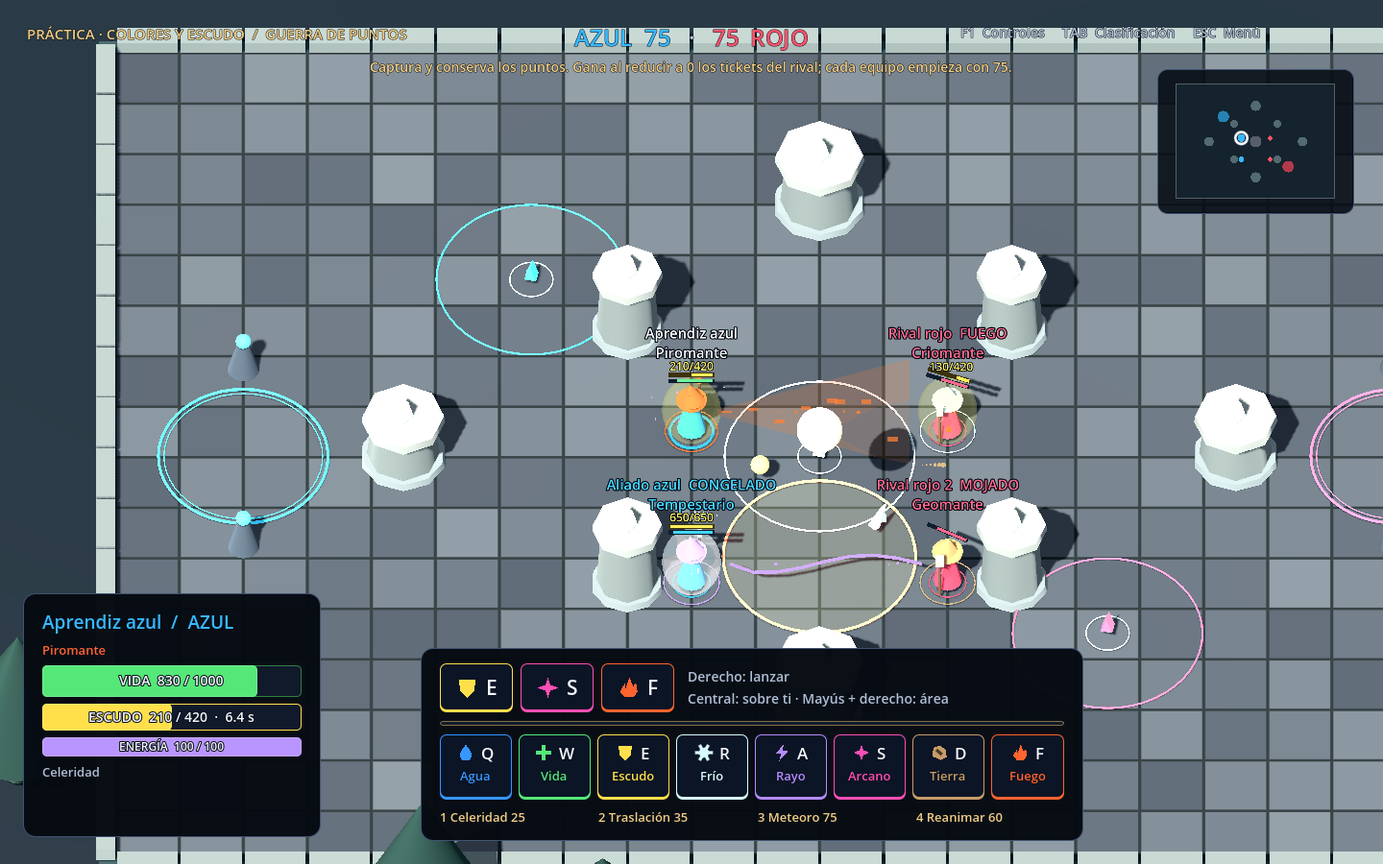
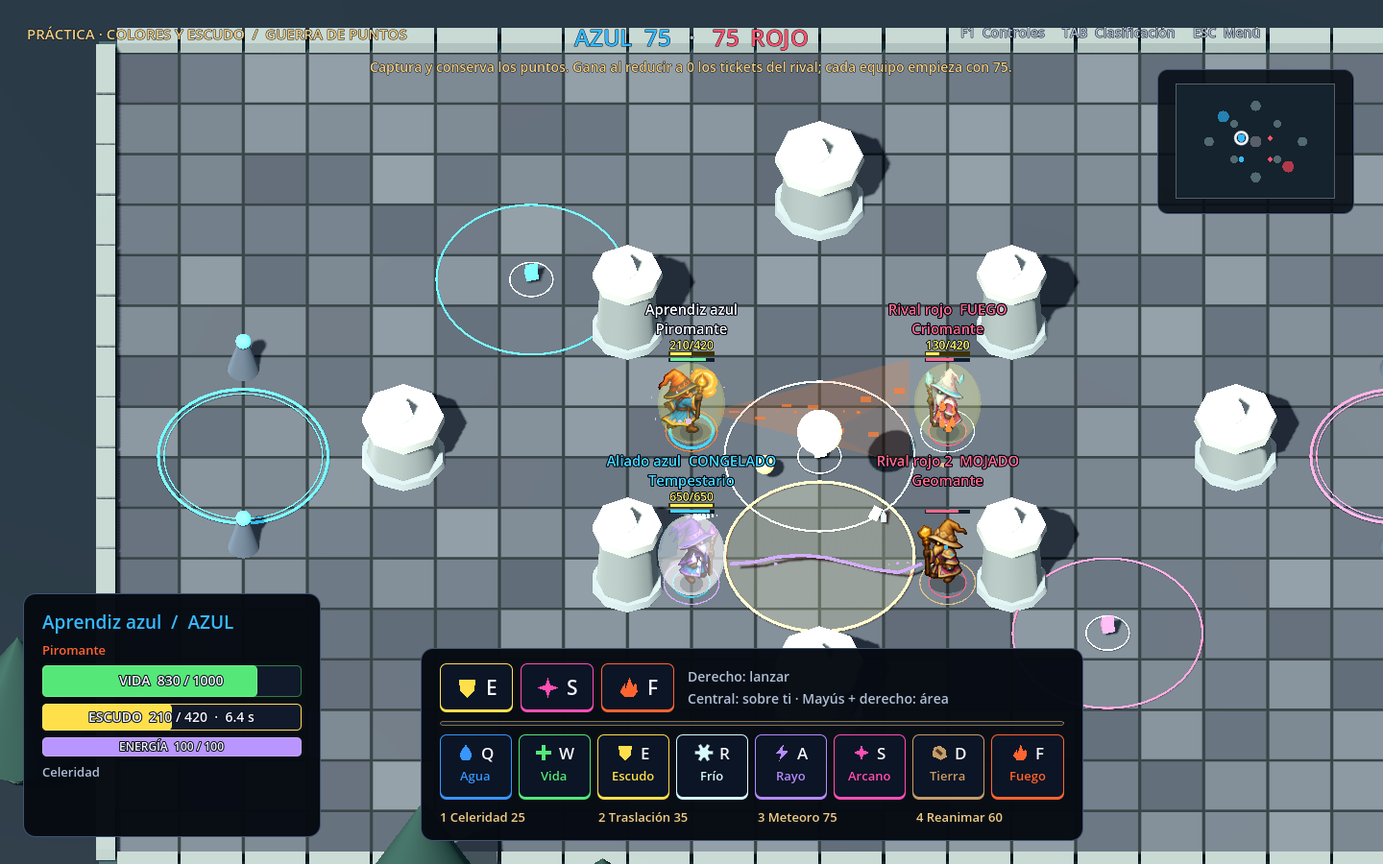
Actualiza documentación y capturas de ArcanaArena v0.6.0
Incluye README, historial, arquitectura, combinaciones, instrucciones y notas de versión.

Vídeos y recursos de sprites quedan pendientes para un commit aparte.

diff --git a/README.md b/README.md
@@ -1,12 +1,14 @@
-# Arcana Arena — v0.4.0
+# Arcana Arena — v0.6.0
 
 Primera recreación jugable en C# del combate elemental de **Magicka: Wizard Wars**. Cliente 3D de escritorio con **Godot 4.5.2 .NET**, servidor independiente **ASP.NET Core / .NET 8**, Docker, launcher con conexión por IP/LAN, salas independientes y paquete Windows para abrir con doble clic.
 
-El código, las mallas y los sonidos son propios. Esta versión reproduce la estructura del combate; los gráficos, mapas, magicks y valores de daño son una aproximación, no una reproducción exacta del original.
+El código, las mallas y los sonidos son propios. Los sprites de los magos se han generado para este proyecto. Esta versión reproduce la estructura del combate; los gráficos, mapas, magicks y valores de daño son una aproximación, no una reproducción exacta del original.
 
 ![Launcher y acceso a partidas](docs/images/launcher.png)
 
 ![Tipos de mago y efectos de combate](docs/images/game.png)
+
+![Sprites de los cinco magos en azul y rojo](docs/images/wizards.png)
 
 ![Escudo al 50 %, con puntos y duración restantes](docs/images/shield-half.png)
 
@@ -18,16 +20,23 @@ El código, las mallas y los sonidos son propios. Esta versión reproduce la est
 - Colores con más contraste y símbolos por elemento. Vida y escudo separados: el escudo muestra puntos/capacidad real y segundos restantes; también aparece sobre el mago.
 - Duelo, todos contra todos y guerra por tres puntos de control, con tickets, muerte, reaparición y reinicio de partidas. El objetivo y el límite real aparecen en la sala y en el HUD; ayuda **F1 → Cómo ganar**.
 - Cinco tipos de mago: equilibrado, piromante, criomante, tempestario y geomante. Bonus elemental del 25 % y debilidad del 25 %, elegidos antes de entrar y calculados por el servidor.
+- Sprites propios para los cinco magos, con cuatro orientaciones, pasos y poses de lanzamiento. Túnicas por equipo y detalles de especialidad; barras sobre el sombrero. [Arte y código de los sprites](docs/SPRITES-MAGOS.md).
 - Estelas, ondas, impactos, fragmentos de hielo/roca, explosiones, destellos y rotura de escudo. Quemadura, mojado, frío y celeridad con partículas. Efectos con nodos reutilizados y límites fijos.
 - Cuatro magicks: celeridad, traslación, meteoro y reanimación. Coste de energía y tiempos de reutilización.
+- Splash selectivo en rocas imbuidas, suelo ardiente/helado/charcos, minas ofensivas y minas de vida que respetan equipos. Escudo de vida con regeneración gradual y cese al romperse.
+- Rayos que se unen en el cruce y suman componentes; reflexión en escudos y refracción con guardas elementales, con dos rebotes como máximo.
+- **F1 → Combinaciones:** 120 combinaciones, tres formas de lanzamiento, demostraciones animadas en bucle, pausa/repetición y escenas de cruce, escudo y captura.
+- Puntos de control con círculo que se rellena por equipo, porcentaje y estado disputado.
 - Bots que combaten, se curan y capturan puntos. Práctica local sin iniciar Docker.
 - Launcher: IP/dominio, búsqueda LAN, servidor incluido, configuración gráfica y creación de salas con modo, bots, aforo y contraseñas.
 - Distribución Windows x64 autónoma: motor, cliente, servidor y runtimes incluidos. No necesita instalar Godot, .NET ni Docker para jugar o alojar.
 - Servidor autoritativo a 60 pasos/s, envío de estado a 20 Hz y representación interpolada en el cliente.
 
+**Demostraciones en vídeo:** [splash, regeneración y minas](docs/videos/combination-effects.mp4) · [cruce de rayos](docs/videos/beam-interactions.mp4) · [refracción en escudos](docs/videos/shield-refraction.mp4) · [captura por equipos](docs/videos/point-capture.mp4). Dentro del juego, **F1 → Combinaciones** muestra cada receta y sus tres modos de lanzamiento. [Reglas y valores](docs/COMBINACIONES.md).
+
 ## Jugar con doble clic en Windows
 
-1. Descargar [ArcanaArena-v0.4.0-Windows-x64.zip](https://github.com/andresmartinezmelgar/magicka/releases/download/v0.4.0/ArcanaArena-v0.4.0-Windows-x64.zip) de [Releases](https://github.com/andresmartinezmelgar/magicka/releases/latest).
+1. Descargar [ArcanaArena-v0.6.0-Windows-x64.zip](https://github.com/andresmartinezmelgar/magicka/releases/download/v0.6.0/ArcanaArena-v0.6.0-Windows-x64.zip) de [Releases](https://github.com/andresmartinezmelgar/magicka/releases/latest).
 2. **Extraer todo el ZIP** en una carpeta. Abrir **ArcanaArena.exe** con doble clic.
 3. Elegir el **tipo de mago**. Elegir **Práctica** para jugar con bots, **Alojar** para iniciar tu servidor, **LAN** para buscar servidores o **Por IP** para usar una dirección.
 
@@ -57,7 +66,7 @@ El resultado queda en **`Juego/ArcanaArena.exe`**. Cada compilación correcta **
 - **Todos contra todos:** primer mago que llega al límite de bajas; por defecto 15.
 - **Guerra:** reducir a cero los tickets rivales; controlar más puntos los desgasta cada segundo y cada muerte cuesta un ticket.
 
-Los valores de la sala prevalecen sobre los valores por defecto. [Reglas completas](docs/COMO-GANAR.md) · [Bonus y debilidades de los cinco tipos](docs/TIPOS-DE-MAGO.md). Las clases y la debilidad se calculan en el servidor: **protocolo 3**, actualizar el cliente y el servidor Docker juntos a esta versión.
+Los valores de la sala prevalecen sobre los valores por defecto. [Reglas completas](docs/COMO-GANAR.md) · [Bonus y debilidades de los cinco tipos](docs/TIPOS-DE-MAGO.md). El combate usa **protocolo 4**. Actualizar cliente y servidor juntos a v0.6.0; las versiones anteriores se rechazan en el saludo.
 
 ## Diagnosticar un problema
 
@@ -171,12 +180,14 @@ dotnet run --project tests/Arcana.Tests -c Release -- --server=127.0.0.1:27015 -
 
 Si se usa contraseña, definir `TEST_PASSWORD` en el proceso de pruebas. El cliente y el servidor deben ejecutar la misma versión del protocolo.
 
-La batería incluye **43 pruebas** con servidor protegido: 29 de núcleo/diagnóstico y 14 de red. Cubre combate, copias de estado, absorción/capacidad/caducidad del escudo, afinidades por componente, quemaduras, victoria y replicación de tipos/objetivos, respuestas acotadas, rotación y ocultación de contraseñas, aislamiento de salas, cierre simultáneo, cancelación del saludo, bots en salas vacías y errores HTTP. El cliente ejecuta una práctica de cuatro magos durante 240 pasos en modo headless.
+La batería incluye **53 pruebas** con servidor protegido: 38 de núcleo/diagnóstico y 15 de red. Cubre combate, copias de estado, absorción/capacidad/caducidad del escudo, afinidades por componente, quemaduras, victoria y replicación de tipos/objetivos, respuestas acotadas, rotación y ocultación de contraseñas, aislamiento de salas, cierre simultáneo, cancelación del saludo, bots en salas vacías y errores HTTP. El cliente ejecuta una práctica de cuatro magos durante 240 pasos en modo headless.
 
-El workflow compila y prueba en Linux, valida Docker con IP y LAN, y genera el paquete en Windows. Antes de publicarlo prueba el servidor incluido, la creación de salas y el juego **exportado**, con el runtime global deshabilitado. También arranca el servidor desde el launcher exportado, comprueba que se detiene al cerrar, exporta un informe que incluye un aviso de prueba del motor y comprueba seis estados del escudo en el HUD. Valida doce tipos de eventos visuales, su expiración y limpieza. La compilación automática se ejecuta en Windows PowerShell 5.1; comprueba la sustitución completa de la carpeta y que un fallo conserve el resultado anterior. Solo una ejecución completa satisfactoria publica una nueva versión en **Releases**.
+El workflow compila y prueba en Linux, valida Docker con IP y LAN, y genera el paquete en Windows. Antes de publicarlo prueba el servidor incluido, la creación de salas y el juego **exportado**, con el runtime global deshabilitado. También arranca el servidor desde el launcher exportado, comprueba que se detiene al cerrar, exporta un informe que incluye un aviso de prueba del motor y comprueba seis estados del escudo en el HUD. Valida doce tipos de eventos visuales, su expiración y limpieza, y diez escenas del catálogo. Recorre las 360 demostraciones (120 combinaciones × 3 formas de lanzar) y valida sus snapshots y reinicios. La compilación automática se ejecuta en Windows PowerShell 5.1; comprueba la sustitución completa de la carpeta y que un fallo conserve el resultado anterior. Solo una ejecución completa satisfactoria publica una nueva versión en **Releases**.
 
 ## Alcance de esta primera versión
 
 El núcleo PvP, el launcher y el servidor están implementados. El mapa, los modelos, la animación y el balance son propios. Esta versión usa WebSocket sobre TCP y suavizado del estado; no incorpora predicción con reconciliación, compensación de latencia, matchmaking público, cuentas, persistencia de estadísticas ni las tablas completas de balance y equipo del original. La preferencia de equipo se respeta cuando permite mantener equipos equilibrados.
+
+Combate y demostraciones: [efectos, minas, rayos y captura](docs/COMBINACIONES.md).
 
 Documentación adicional: [servidor y redes](docs/SERVIDOR.md), [arquitectura](docs/ARQUITECTURA.md), [exportar el ejecutable](docs/EXPORTAR.md), [cambios de versión](CHANGELOG.md).

diff --git a/docs/COMBINACIONES.md b/docs/COMBINACIONES.md
@@ -1,0 +1,71 @@
+# Combinaciones, efectos e interacciones
+
+Abrir **F1 → Combinaciones** desde el launcher o durante una partida. Hay **120 selecciones válidas** de uno, dos o tres elementos, sin duplicar permutaciones. Buscar por teclas (por ejemplo `EW`) o por elemento, elegir lanzamiento **Frontal**, **Sobre ti** o **Pulso**, y ver su demostración animada. El orden de las teclas no cambia la receta.
+
+La demostración se repite, se puede pausar y reiniciar. Enseña el combate con personajes, proyectiles, campos, barras y efectos; usa las mismas reglas que el juego en un mundo separado. Consultarla no crea minas ni modifica la partida. En partidas online el servidor sigue avanzando mientras se consulta F1.
+
+Grabaciones del juego: [efectos y minas](videos/combination-effects.mp4), [cruce de rayos](videos/beam-interactions.mp4), [refracción en escudos](videos/shield-refraction.mp4) y [captura progresiva](videos/point-capture.mp4). El catálogo integrado permite ver también las demás combinaciones.
+
+## Formas distintas de lanzar
+
+| Combinación | Lanzamiento | Comportamiento |
+|---|---|---|
+| `FFF`, `QF` | Mantener derecho | Chorro o vapor en cono; solo afecta delante del mago. |
+| `SSS`, `WWW` | Mantener derecho | Rayo continuo sobre el primer objetivo; arcano daña, vida cura. |
+| `AAA` | Mantener derecho | Descarga que salta hasta tres objetivos. |
+| `QR`, `QRR` | Derecho | Abanico de fragmentos de hielo con impacto directo. |
+| `DDD` | Cargar y soltar derecho | Roca con impacto directo, sin splash. |
+| `DF`, `DS`, `DQ`, `DR` | Cargar y soltar derecho | Roca imbuida con splash al impacto. |
+| `E` | Derecho | Barrera frontal. |
+| `ES`, `ESF` | Derecho | Mina ofensiva. |
+| `EW`, `EWW` | Derecho | Mina de vida. |
+| `EW`, `EWW` | Central | Escudo regenerativo. |
+| `ES`, `EW` | Mayús + derecho | Seis minas en anillo. |
+| Elementos sin escudo | Mayús + derecho | Pulso de radio 4 m alrededor del mago. |
+
+Los elementos incompatibles se anulan al seleccionarlos: fuego/frío, vida/arcano, agua/rayo, tierra/rayo y escudo/escudo. En una receta normal se admiten como máximo tres elementos.
+
+## Splash y suelo
+
+Solo determinadas rocas salpican. La combinación con arcano tiene radio **2,8 m**; con fuego, **2,5 m**; con agua, **2,7 m**; con frío, **2,1 m**. La prioridad para recetas con varios componentes es arcano, fuego, agua y frío. El objetivo directo recibe el golpe completo una vez; los vecinos reciben hasta el 65 % de la potencia, con caída lineal según la distancia. Los obstáculos y las barreras bloquean la salpicadura.
+
+Fuego, frío y agua dejan respectivamente **suelo ardiente, suelo helado o un charco**, durante **4 s** y con un radio del 85 % del splash. El suelo aplica los componentes secundarios de forma continua, sin repetir el golpe de tierra. Puede afectar al propietario y respeta la configuración de fuego amigo.
+
+El anillo del impacto muestra su radio real. Una roca pura y un fragmento de hielo no crean una explosión circular.
+
+## Escudo regenerativo
+
+**EW + central** crea un escudo de 180 puntos y recupera **38 puntos de vida/s**; **EWW + central**, **76 puntos/s**. Dura hasta **12 s**. No cura instantáneamente y no supera 1000 puntos de vida. La curación termina al agotarse, caducar o sustituirse el escudo, y se limpia al morir y reaparecer.
+
+La burbuja se vuelve verde, aparecen partículas de recuperación y el HUD indica la tasa. La barra amarilla sigue mostrando la protección restante.
+
+## Minas
+
+Una mina frontal se coloca a **3,2 m**, se arma tras **0,4 s** y dura hasta **12 s**. El círculo pequeño, de **0,85 m**, marca la activación; el grande, de **2,4 m**, el alcance del efecto.
+
+- **Ofensiva:** la activa un enemigo. Los aliados no la consumen, aunque pueden recibir su explosión si el fuego amigo está habilitado.
+- **De vida:** la activa un aliado herido, incluido el propietario. Recupera **252 puntos por elemento de vida** a aliados cercanos, sin superar el máximo. Nunca cura ni se consume por enemigos y no añade daño ofensivo.
+
+Una mina actúa una vez. Las barreras bloquean su efecto y desconectar elimina las minas del propietario.
+
+## Rayos y escudos
+
+Los canales rectos se resuelven juntos, después del movimiento. Si dos rayos se cruzan antes de llegar a un obstáculo, una barrera o un personaje, las entradas terminan en el cruce y aparece una salida con **la suma de sus componentes**. Cada aportación conserva su daño, curación, estados y afinidad de origen. Los componentes opuestos de rayos diferentes se aplican como efectos separados; no se someten a la cancelación del teclado.
+
+La salida sigue la **bisectriz** de las direcciones. En un choque frontal se desvía **90°**, con una orientación determinista. Se combinan dos canales por encuentro y cada canal participa como máximo en un encuentro por paso. El alcance restante es el menor de ambos; el cruce no crea alcance adicional.
+
+Un escudo o una barrera devuelve un rayo por **reflexión**. Recibe el 20 % de su presión y devuelve el 80 % de la intensidad; el tramo devuelto se atribuye al propietario del escudo. Una guarda elemental añade sus componentes con intensidad 0,35 y desvía **20°** más la salida, produciendo **refracción**. Cada rayo tiene como máximo dos rebotes. Un rayo de vida que alcanza a un aliado protegido lo cura directamente.
+
+Las franjas de color muestran los componentes de los tramos combinados. F1 incluye escenas específicas de **Cruce de rayos** y **Escudo prismático**.
+
+## Captura de puntos
+
+El círculo se rellena por sectores según el progreso real: **azul** para el equipo azul y **rojo** para el rojo. Se muestran la letra del punto y el porcentaje; el minimapa también indica el progreso.
+
+Cuando entra el rival, primero retira el progreso del equipo anterior, pasa por neutral y empieza a rellenar su color. Si hay jugadores de ambos equipos dentro, el punto indica **DISPUTADO** y la captura se detiene. El relleno interpola los snapshots del servidor para evitar saltos visuales.
+
+## Compatibilidad y comprobaciones
+
+La versión **v0.6.0 usa protocolo 4**. Actualizar cliente y servidor juntos. La red replica regeneración, minas armadas y sus radios, campos persistentes, componentes/intensidad de rayos y disputa de puntos.
+
+Las pruebas recorren las 360 demostraciones, verifican destinatarios de minas, regeneración, splash, caducidad, cruces, escudos y captura. `--combinations-smoke` comprueba diez escenas en el cliente y en la distribución Windows, incluida la representación de los nuevos eventos y los límites de recursos.

diff --git a/docs/ARQUITECTURA.md b/docs/ARQUITECTURA.md
@@ -32,7 +32,7 @@ El cliente exportado incluye Godot y el runtime .NET. El servidor se publica par
 
 ## Representación
 
-`ArenaRenderer` construye ruinas, suelo, magos, escudos y hechizos con mallas procedurales. `WizardVisual` recibe el estado del mago. `Hud` representa vida, energía, selección, clasificación y minimapa. `SpellAudio` genera breves ondas PCM propias.
+`ArenaRenderer` construye ruinas, suelo, escudos y hechizos con mallas procedurales. `WizardVisual` representa el mago con un `Sprite3D` orientado hacia la cámara. `WizardSprites` comparte cinco atlas, lee los anclajes y prepara el material que cambia solo la tela por equipo. La dirección, movimiento, carga, lanzamiento y daño del snapshot deciden la pose. `Hud` representa vida, energía, selección, clasificación y minimapa. `SpellAudio` genera breves ondas PCM propias. [Formato, arte y animación de los magos](SPRITES-MAGOS.md).
 
 Los diccionarios de mallas usan el identificador de cada entidad para reutilizar nodos. Al desaparecer una entidad del estado, su nodo se elimina. Los rayos reutilizan un conjunto acotado de segmentos; los eventos se reproducen una sola vez.
 
@@ -50,7 +50,7 @@ Las salas sin humanos se pausan. El servidor reutiliza contenedores temporales y
 
 ## Vida y escudo
 
-`Wizard.ShieldMax` conserva la capacidad aplicada, aunque el daño reduzca `Shield`. El snapshot transmite `ShieldMax` y `ShieldSeconds`; la expiración, muerte y reaparición limpian los valores. El HUD y las barras 3D usan la misma capacidad y diferencian vida, protección y energía. Los campos tienen valores predeterminados para fixtures antiguos. Desde v0.4.0, las conexiones exigen protocolo 3 para garantizar afinidades y objetivos comunes.
+`Wizard.ShieldMax` conserva la capacidad aplicada, aunque el daño reduzca `Shield`. El snapshot transmite `ShieldMax`, `ShieldSeconds` y `RegenerationRate`; la expiración, muerte y reaparición limpian los valores. El HUD y las barras 3D usan la misma capacidad y diferencian vida, protección y energía. La versión v0.6.0 exige protocolo 4 para garantizar efectos e interacciones comunes.
 
 `ElementIcon` dibuja formas vectoriales sin texturas externas. `Ui.ElementTile` reutiliza símbolo, tecla, nombre y color en launcher y HUD. `VisualFixture` proporciona escenas deterministas para capturas; `--hud-smoke` verifica barras y cifras en seis estados sin conectarse a un servidor.
 
@@ -61,3 +61,13 @@ Las salas sin humanos se pausan. El servidor reutiliza contenedores temporales y
 El servidor emite `shield_hit`, `shield_break` y `hurt`; limita los impactos continuos a uno por mago cada 0,14 s, y siempre emite la rotura. `CombatEffects` mantiene pools de hasta 384 partículas y 32 ondas, con mallas y materiales compartidos. Procesa eventos por ID, crea estelas y partículas de estado a intervalos y limpia los efectos al salir. `--effects-smoke` comprueba doce eventos, datos de tipo, límites, expiración y limpieza.
 
 `Compilar-Juego.cmd` ejecuta `auto-compile.ps1` en Windows PowerShell 5.1. Las herramientas se almacenan en `.tools/`; `package-windows.ps1` construye `artifacts/windows`. `Publish-GamePackage` valida el paquete, copia a una carpeta temporal y sustituye `Juego/` mediante movimientos, con restauración si falla el movimiento. La prueba `test-build-output.ps1` verifica reemplazo, segunda publicación, rutas con espacios y preservación del juego ante un paquete incompleto.
+
+## Interacciones y catálogo
+
+`GameWorld.Beams` resuelve los canales rectos después del movimiento. Recorta el alcance por obstáculos, barreras y personajes; busca encuentros entre segmentos y conserva aportaciones separadas para los tramos combinados. Cada canal se une una vez por paso, cada salida tiene hasta dos rebotes y el snapshot conserva hasta 64 tramos. El renderer utiliza hasta 512 segmentos reutilizados para franjas de color y cadenas eléctricas.
+
+`GameWorld.Effects` controla colocación y destinatarios de minas y splash de rocas. Los campos persistentes reutilizan el contenedor acotado de 40 entidades y conservan solo los elementos secundarios. `FieldSnapshot` separa radio del efecto y radio de activación; `GameEvent.Radius` permite representar el alcance real.
+
+`SpellCatalogue` enumera 120 selecciones válidas de hasta tres elementos, sin permutaciones ni pares incompatibles. `SpellDemonstration` repite intenciones sobre un `GameWorld` aislado. `SpellBook` muestra ese combate en un `SubViewport` con mundo 3D propio, y procesa pasos solo mientras su pestaña está visible. No comparte la conexión ni la simulación de la partida. Las demos se reinician limpiando nodos y eventos.
+
+`CapturePointVisual` utiliza un shader por punto; el relleno angular y el color proceden del progreso firmado. Interpola el progreso sin crear materiales por fotograma, muestra disputa y porcentaje; `MiniMap` utiliza el mismo estado.

diff --git a/docs/SPRITES-MAGOS.md b/docs/SPRITES-MAGOS.md
@@ -1,0 +1,35 @@
+# Sprites de los magos
+
+Primera pasada de arte para los personajes, integrada en la arena de v0.5.0. Los cinco magos sustituyen los cuerpos hechos con cilindros y conos. Tienen túnica, rostro, barba, sombrero, botas, bastón y una pose de lanzamiento propia de la especialidad.
+
+| Tipo | Detalles de especialidad | Archivo en `src/Arcana.Client/Assets/Wizards/` |
+|---|---|---|
+| Equilibrado | Sombrero flexible, barba blanca, runas y cristal ámbar | `balanced.png` |
+| Piromante | Sombrero naranja, barba cobriza, ribetes de llamas | `pyromancer.png` |
+| Criomante | Sombrero blanco con cristales, hombros de piel, copos | `cryomancer.png` |
+| Tempestario | Sombrero violeta con puntas, capa y runas de rayo | `stormcaller.png` |
+| Geomante | Sombrero ocre, hombreras de piedra, runas geométricas | `geomancer.png` |
+
+![Los cinco magos en ambos equipos](images/wizards.png)
+
+## Formato y animación
+
+Cada PNG tiene **1254 × 1254 píxeles**, canal alfa y una cuadrícula de **4 × 4**. Las celdas miden 313,5 píxeles: el código utiliza las divisiones reales del atlas y evita truncar sus coordenadas.
+
+Filas: frente/sur, izquierda/oeste, espalda/norte y derecha/este. Columnas: reposo, paso A, paso B y lanzamiento. Esta primera versión reproduce el movimiento alternando reposo y paso A, con balanceo suave. El paso B queda fuera del ciclo mientras se corrige la continuidad del bastón en esas cuatro celdas. La carga y el lanzamiento continuo usan la cuarta columna; los eventos instantáneos también activan brevemente esa pose. La congelación detiene los pasos. Al morir se oculta el cuerpo y aparece el fantasma; al reaparecer se restaura el sprite.
+
+`atlases.json` guarda el anclaje de los pies para cada celda y la escala. `WizardSprites.cs` carga y comparte las cinco texturas; `WizardVisual.cs` elige la fila según el apuntado, con histéresis en las diagonales, y la pose según movimiento y lanzamiento. El cambio de fotograma no vuelve a cargar la imagen. Los sprites se orientan hacia la cámara y respetan la profundidad del escenario.
+
+## Colores y combate
+
+`team-cloth.gdshader` convierte la tela azul del atlas al color azul o rojo del equipo, conservando luces y sombras. El blanco/cian del hielo, violeta del rayo, naranja del fuego y ocre de la tierra mantienen su especialidad. El anillo del suelo y el nombre refuerzan la identificación del equipo.
+
+Vida, escudo, capacidad restante y nombre se colocan sobre el sombrero y paralelos a la cámara. Las barras no proyectan sombras. El escudo conserva su burbuja, adaptada al tamaño del personaje. Recibir daño en la vida produce un breve destello. Las reglas de daño y los multiplicadores siguen en el servidor; los sprites solo representan su estado.
+
+Las texturas se importan sin pérdida, con alfa y mipmaps. El exportador incluye explícitamente `atlases.json`. No hace falta instalar herramientas de imágenes para compilar o jugar.
+
+## Origen y validación
+
+Arte original generado para este proyecto con la herramienta integrada **`image_gen.imagegen`**, sin utilizar recursos de Magicka. El diseño y los cinco prompts completos están en [wizard-prompts.json](art/wizard-prompts.json). Se conservan las hojas completas; el juego selecciona sus regiones sin modificar los PNG.
+
+`--sprites-smoke` verifica la carga real de los cinco atlas, 120 combinaciones de tipo/equipo/orientación/pose, anclajes, color de equipo, eventos instantáneos, congelación, muerte, reaparición y limpieza. La CI lo ejecuta en Linux y en el paquete Windows exportado, sin depender de un runtime global. También se revisan capturas de frente, perfil, espalda, combate y escudo.

diff --git a/CHANGELOG.md b/CHANGELOG.md
@@ -1,5 +1,24 @@
 # Cambios
 
+## 0.6.0
+
+- Rocas imbuidas con splash y caída por distancia; fuego en el suelo, hielo y charcos con duración finita. Tierra pura y fragmentos de hielo conservan impacto directo.
+- Escudo de vida con 38/76 puntos de regeneración por segundo, burbuja verde y tasa en el HUD. Termina al romperse, expirar o sustituirse.
+- Minas ofensivas activadas por enemigos; minas de vida activadas por aliados heridos, incluido el dueño. Radios separados de activación y explosión/curación, demora de armado y caducidad.
+- Rayos resueltos después del movimiento: unión de componentes, bisectriz o desvío perpendicular en choques frontales, reflexión y refracción elemental con máximo dos rebotes.
+- Catálogo F1 con 120 combinaciones y 360 demostraciones, controles de reproducción y escenas de interacciones. Simulaciones aisladas de la partida.
+- Círculos de captura con relleno progresivo por equipo, porcentaje, disputa y progreso en el minimapa.
+- Protocolo 4, validación de nuevos campos y copia independiente del estado. Cliente y servidor deben actualizarse juntos.
+- 53 pruebas con servidor protegido y comprobación del catálogo en Godot y en el paquete Windows.
+
+## 0.5.0
+
+- Arte original para los cinco magos: atlas transparentes, cuatro orientaciones, pasos y poses de lanzamiento.
+- Tela por equipo mediante shader; colores y siluetas de especialidad conservados. Anclajes de pies por fotograma y cinco texturas compartidas.
+- Barras y nombres alineados con la cámara sobre el personaje; escudo adaptado, sombras del HUD eliminadas y destello de daño.
+- Carga de atlas registrada en logs. Nueva comprobación de sprites en Linux y Windows exportado, con 120 combinaciones y estados de combate.
+- Capturas reales, documentación y prompts del arte. Ejecutable, compilación de doble clic y servidor incluidos; protocolo 3 compatible con v0.4.0.
+
 ## 0.4.0
 
 - `Compilar-Juego.cmd`: configura las herramientas, compila cliente y servidor y sustituye la carpeta `Juego/` tras validar el paquete. Herramientas reutilizadas, registro y conservación del juego anterior ante errores.

diff --git a/docs/RELEASE-v0.6.0.md b/docs/RELEASE-v0.6.0.md
@@ -1,0 +1,20 @@
+# Arcana Arena v0.6.0 — combinaciones e interacciones
+
+Descargar `ArcanaArena-v0.6.0-Windows-x64.zip`, extraer todo y abrir **ArcanaArena.exe**. Incluye el cliente, el servidor y sus runtimes. Para compilar el código, abrir **Compilar-Juego.cmd**; el resultado sustituye la carpeta **Juego/** cuando termina correctamente.
+
+- Rocas imbuidas con splash; tierra pura y fragmentos de hielo con impacto directo.
+- Fuego en el suelo, suelo helado y charcos que duran cuatro segundos.
+- Escudo de vida con regeneración gradual de 38/76 puntos por segundo, burbuja verde y tasa en el HUD.
+- Minas ofensivas activadas por enemigos y minas de vida que solo curan aliados heridos, incluido el propietario.
+- Rayos que unen sus efectos en el cruce, salen por una nueva dirección y se reflejan/refractan al alcanzar escudos o barreras.
+- **F1 → Combinaciones:** 120 combinaciones, tres modos de lanzar, demostraciones en bucle con pausa/repetición y escenas específicas de rayos, escudos y captura.
+- Puntos con área que se rellena por equipo, porcentaje, estado disputado y progreso en el minimapa.
+- Conserva los sprites y las animaciones de los cinco magos, colores por equipo, salas, LAN, práctica y diagnóstico.
+
+**Protocolo 4:** actualizar cliente y servidor juntos. Las versiones anteriores no son compatibles con esta versión.
+
+Publicación condicionada a la compilación, 53 pruebas de reglas/diagnóstico/red, Docker y comprobaciones del ejecutable Windows, incluido el catálogo de combinaciones.
+
+Reglas detalladas en `docs/COMBINACIONES.md`.
+
+Vídeos: [efectos y minas](https://github.com/andresmartinezmelgar/magicka/blob/v0.6.0/docs/videos/combination-effects.mp4) · [cruce de rayos](https://github.com/andresmartinezmelgar/magicka/blob/v0.6.0/docs/videos/beam-interactions.mp4) · [refracción en escudos](https://github.com/andresmartinezmelgar/magicka/blob/v0.6.0/docs/videos/shield-refraction.mp4) · [captura](https://github.com/andresmartinezmelgar/magicka/blob/v0.6.0/docs/videos/point-capture.mp4).

diff --git a/docs/SERVIDOR.md b/docs/SERVIDOR.md
@@ -45,7 +45,7 @@ Una dirección sin esquema utiliza `ws://`, puerto 27015 y ruta `/play`. Una dir
 
 ## LAN
 
-El launcher envía `ARCANA_DISCOVER_V3` y un nonce por UDP al puerto de búsqueda. El servidor responde con nombre, IP de origen, puerto TCP, modo, ocupación y si necesita contraseña. El cliente obtiene la IP de la respuesta, no de datos declarados por un tercero.
+El launcher envía `ARCANA_DISCOVER_V4` y un nonce por UDP al puerto de búsqueda. El servidor responde con nombre, IP de origen, puerto TCP, modo, ocupación y si necesita contraseña. El cliente obtiene la IP de la respuesta, no de datos declarados por un tercero.
 
 La búsqueda dura dos segundos y también pregunta a loopback, para encontrar un servidor ejecutado en el mismo equipo. Las subredes de Wi-Fi invitado, el aislamiento entre clientes y los cortafuegos pueden impedir broadcast. En ese caso, la misma partida LAN es accesible introduciendo su IP en **Por IP**.
 
@@ -81,6 +81,6 @@ Si `/health` funciona localmente pero otro PC no conecta, comprobar que el puert
 
 Para detener: `docker compose down`. Las estadísticas de esta versión son de la partida actual y se reinician al apagar el proceso.
 
-## Compatibilidad v0.4.0
+## Compatibilidad: protocolo 4
 
-El protocolo 3 incluye el tipo de mago y los límites reales de victoria. Actualizar el ejecutable y reconstruir el servidor Docker (`docker compose up -d --build`) juntos. El saludo rechaza tipos desconocidos; la clase es inmutable durante esa conexión.
+La versión v0.6.0 transmite regeneración, armado/radios de minas, nuevos campos, componentes/potencia/tramos de rayos y disputa de puntos. Actualizar cliente y servidor juntos; los clientes anteriores son rechazados. Para el servidor dedicado: `docker compose up -d --build`.

diff --git a/docs/RELEASE-v0.5.0.md b/docs/RELEASE-v0.5.0.md
@@ -1,0 +1,15 @@
+Sprites de los cinco tipos de mago, integrados en el juego.
+
+**Para jugar:** descarga `ArcanaArena-v0.5.0-Windows-x64.zip`, extrae todo y abre `ArcanaArena.exe`.
+
+**Para compilar:** descarga el código actualizado y abre `Compilar-Juego.cmd`. El resultado sustituye `Juego/` y se abre en `Juego/ArcanaArena.exe`.
+
+- Equilibrado, piromante, criomante, tempestario y geomante con rostros, túnicas, barbas, sombreros y bastones propios.
+- Cuatro orientaciones, animación de pasos, balanceo, poses de carga/lanzamiento y destello al recibir daño. Los eventos instantáneos también activan la pose.
+- Túnicas azules o rojas según equipo, conservando los colores de cada especialidad, con anillos de identificación.
+- Barras de vida y escudo sobre el sombrero, alineadas a la cámara, sin sombras; burbuja de escudo ajustada al personaje.
+- Cinco atlas RGBA compartidos, anclajes de pies por pose y mipmaps para el zoom. PNG, índice, shader, documentación y prompts incluidos en el código.
+
+Protocolo 3: compatible con el servidor v0.4.0. La distribución incluye el servidor v0.5.0 y conserva IP, LAN, creación de salas, práctica y diagnóstico.
+
+Validación: comprobación de sprites con 120 combinaciones, congelación, muerte, reaparición y limpieza; capturas reales del juego. También se ejecutan las pruebas de reglas/red, Docker por IP/LAN, compilación con doble clic y seis comprobaciones del ejecutable Windows. Incluye `SHA256SUMS.txt`.

diff --git a/docs/TIPOS-DE-MAGO.md b/docs/TIPOS-DE-MAGO.md
@@ -18,4 +18,4 @@ Las guardas siguen reduciendo el daño de su elemento. La vulnerabilidad aumenta
 
 El sombrero, la gema del bastón y un anillo exterior identifican la afinidad. La túnica y el anillo interior identifican el equipo. La clase aparece en el HUD y sobre el mago; **F1 → Tipos de mago** muestra sus características.
 
-La selección se valida y el daño se calcula en el servidor. Cambiar el tipo requiere salir y volver a entrar. Esta versión usa **protocolo 3**: cliente y servidor deben actualizarse juntos a v0.4.0.
+La selección se valida y el daño se calcula en el servidor. Cambiar el tipo requiere salir y volver a entrar. Esta versión usa **protocolo 4**: actualizar cliente y servidor juntos a v0.6.0. Los sprites de v0.5.0 conservan los colores de especialidad y cambian la tela según el equipo.
